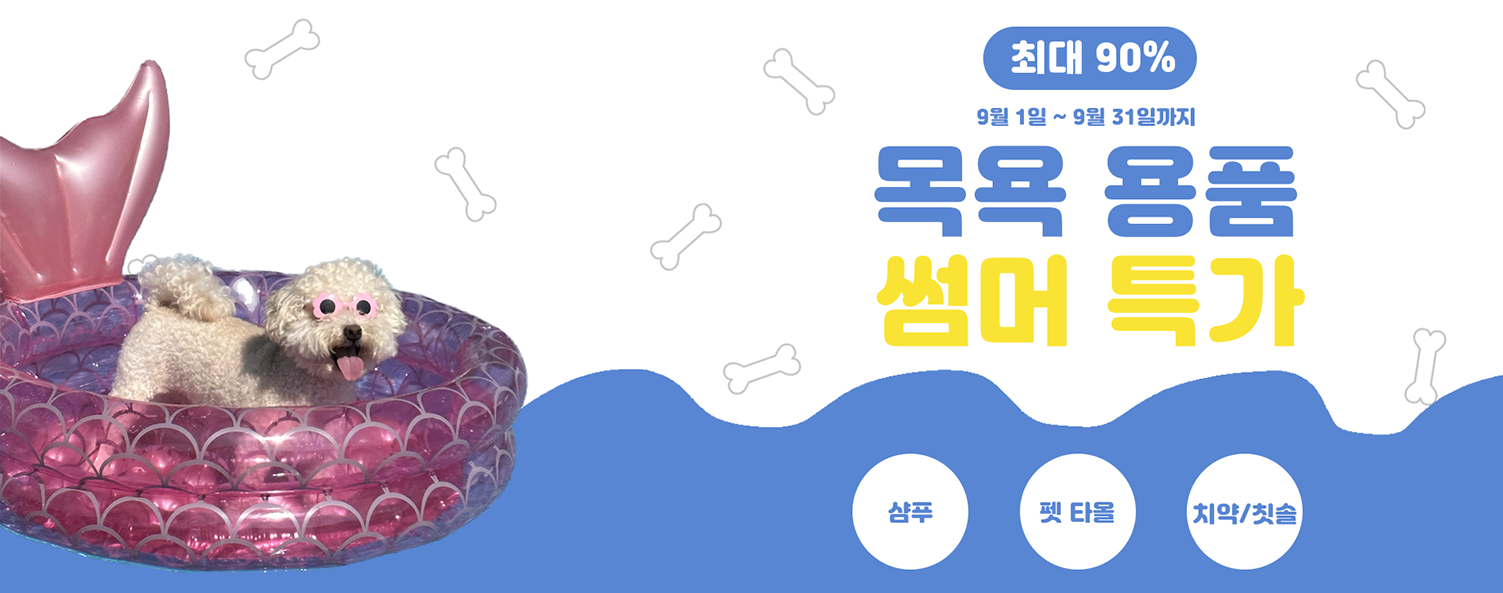
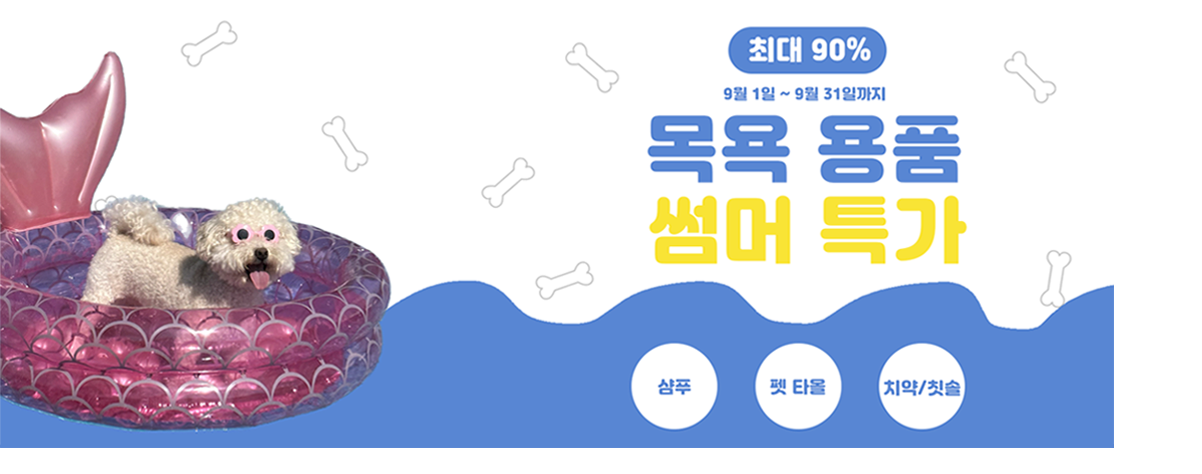
홈 디자인

diff --git a/pet-shopping-mall/src/main/webapp/resources/css/style.css b/pet-shopping-mall/src/main/webapp/resources/css/style.css
@@ -225,11 +225,9 @@ body {
 .swiper-container {
     width: 100%;
     height: 100%;
+    margin-top: 50px;
+    margin-left: 395px;
     overflow: hidden; /* 가로 스크롤 숨김 */
-}
-
-.swiper-slide img {
-	margin: 0 auto;
 }
 
 .swiper-slide {
